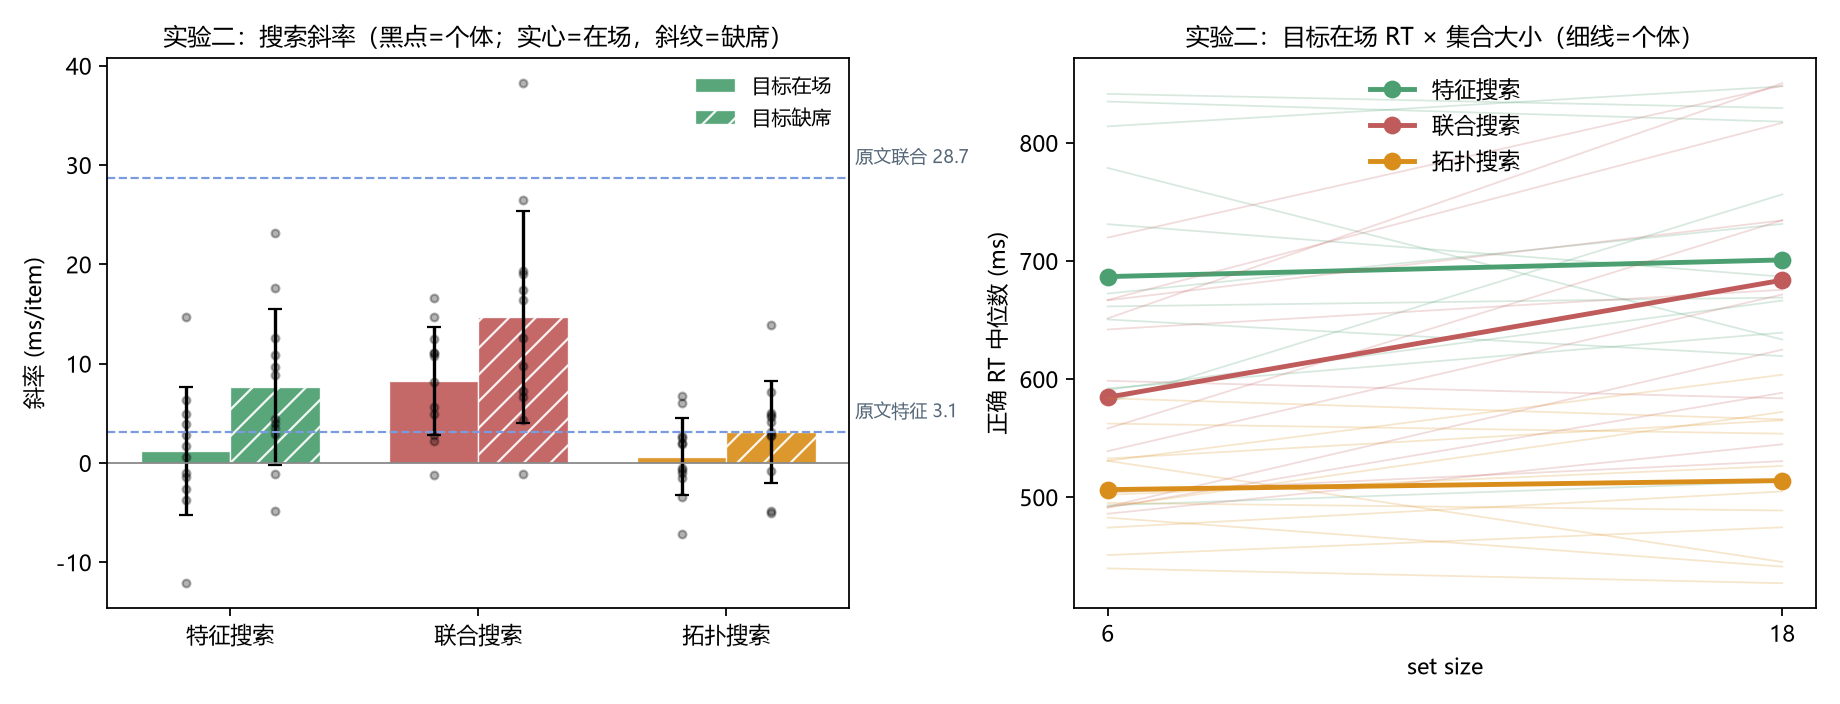
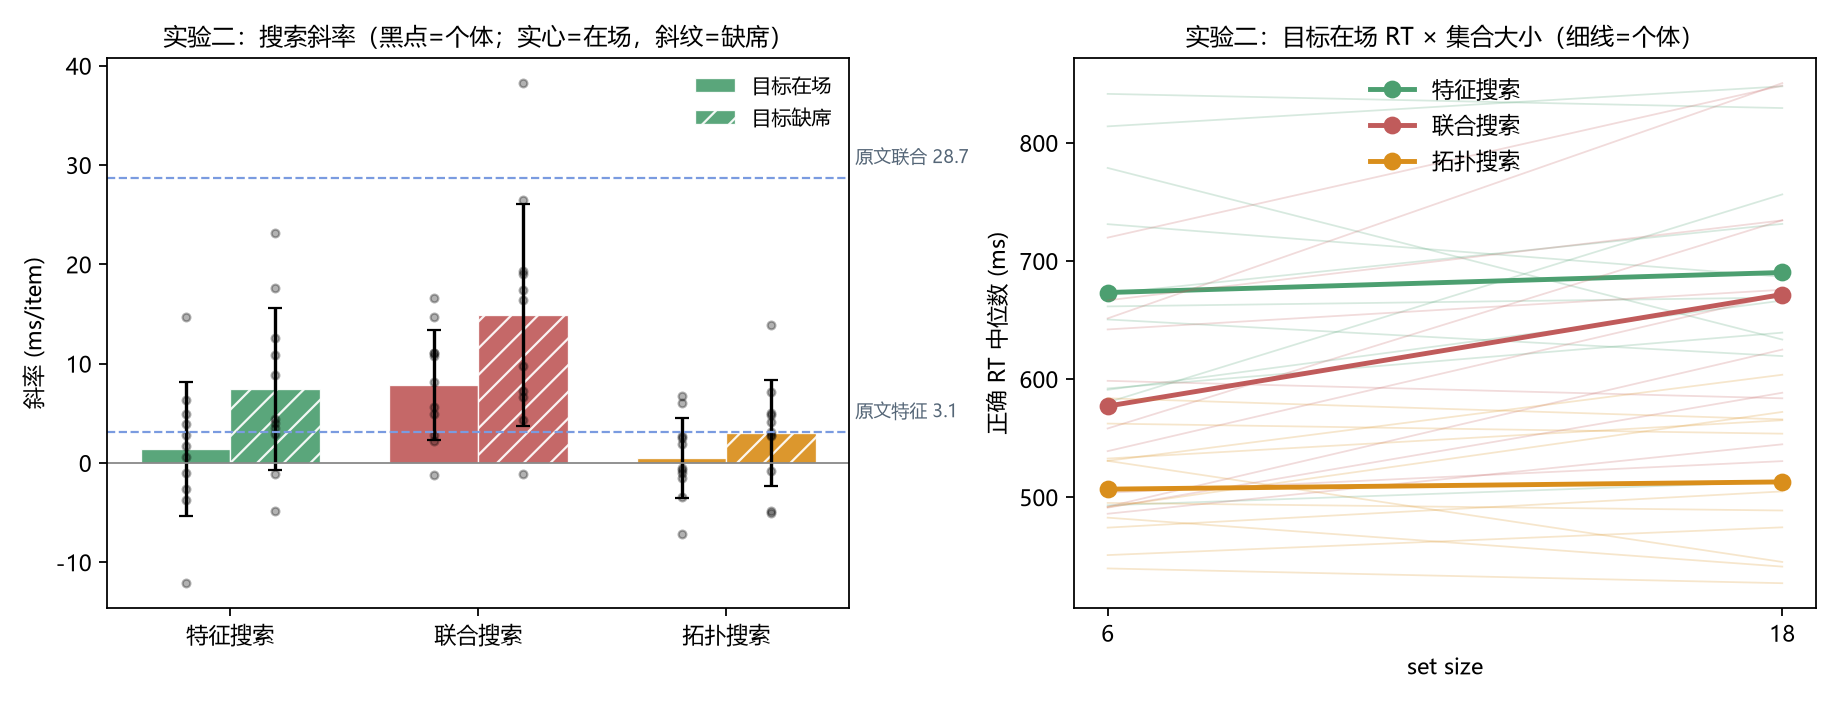
修正：按清理后数据（11 人）重跑统计并同步全部结果
P00（测试）与 P22（仅完成实验二、编号不在平衡表 1–12）已按数据整理决定移除，提交 CSV 为 11 人 × 180 试次（1980 行）。analyze_report.py 改读提交目录 CSV 重跑：
- 实验二 n=12→11：斜率（目标在场）特征 1.2→1.4、联合 8.3→7.9、拓扑 0.6→0.5；缺席:在场比 1.78→1.89；条件主效应 F(2,22)=7.23 p=.004 → F(2,20)=5.59 p=.012；拓扑−联合 p=.018→.039（仍显著，dz=−0.91）；拓扑−特征 p=1.000 不变；特征−联合校正后 p=.048→.103（不再显著，报告措辞已由「显著陡于」改为「陡于、效应量中等」的如实表述）。
- 实验一统计不变（P22 本就未参与）。
同步更新：docs/ 完整报告、assets/results/ 图 1 图 2、README 第九节浓缩数字。核心结论不变：拓扑差异产生与基本特征同型的 pop-out。

diff --git a/docs/作业二_结果与讨论报告.md b/docs/作业二_结果与讨论报告.md
@@ -1,6 +1,6 @@
 # 作业二「注意实验室」结果与讨论报告
 
-**项目码** F2EMS2 ｜ **数据导出** 2026-11-08 21:48（hw2_F2EMS2_2026-11-08_214836.csv，2340 行）
+**项目码** F2EMS2 ｜ **数据导出** 2026-11-08 21:48（hw2_F2EMS2_2026-11-08_214836.csv，1980 行 = 11 人 × 180 试次；测试记录 P00 与仅完成实验二、编号不在平衡表 1–12 内的 P22 已在数据整理时移除）
 
 **统计口径**：完全遵循《实验设计文档》2.6 / 3.6 的数据处理与统计计划；所有检验为被试内设计，效应量报告 Cohen's *d~z~* 与差值 95% CI；重复测量 ANOVA 由 numpy/scipy 按经典被试内分解公式计算（各因素独立误差项，未做球形校正，样本小、解释保守）。
 
@@ -8,7 +8,7 @@
 
 - 测试记录（experiment 以 `test_` 开头，P00）已在分析前排除；
 - 实验一（topo_soa）：11 人（P01–P11），每人 60 正式试次（2 任务 × 3 SOA × 10）；
-- 实验二（fit_topo_search）：12 人（P01–P11、P22），每人 120 正式试次（3 条件 × 2 集合大小 × 2 目标有无 × 10）；其中 P22 仅完成实验二，未参与实验一；
+- 实验二（fit_topo_search）：11 人（P01–P11），每人 120 正式试次（3 条件 × 2 集合大小 × 2 目标有无 × 10）；两实验同一批 11 人参试（P22 仅完成实验二且编号不在平衡表内，未纳入分析）；
 - 漏反应 32 试次（resp/RT 缺失），按错误计入正确率、不进入 RT 分析；
 - 刺激实际呈现时长（dur）核对：30 ms 档平均 36.2 ms、60 ms 档 67.5 ms，与 60 Hz 刷新率量化预期一致（30 ms ≈ 2 帧）。
 
@@ -66,7 +66,7 @@
 
 ## 三、实验二结果：FIT 复现与拓扑 pop-out 检验
 
-**剔除**：全部 12 人总正确率 ≥ 75%（90.8%–100.0%），无人达到剔除标准。RT 清洗共剔除 0 个试次（<200 ms 或单元 ±3 SD）。
+**剔除**：全部 11 人总正确率 ≥ 75%（90.8%–100.0%），无人达到剔除标准。RT 清洗共剔除 0 个试次（<200 ms 或单元 ±3 SD）。
 
 ### 3.1 正确率
 
@@ -74,9 +74,9 @@
 
 | 条件 | set size 6 | set size 18 |
 |---|---|---|
-| 特征搜索 | 96.7 ± 7.0 | 92.5 ± 9.9 |
-| 联合搜索 | 92.9 ± 7.5 | 91.7 ± 10.9 |
-| 拓扑搜索 | 97.5 ± 4.4 | 99.2 ± 2.8 |
+| 特征搜索 | 97.3 ± 7.0 | 93.2 ± 9.9 |
+| 联合搜索 | 92.7 ± 7.7 | 91.8 ± 11.4 |
+| 拓扑搜索 | 98.2 ± 3.9 | 99.5 ± 2.1 |
 
 ### 3.2 搜索斜率
 
@@ -84,9 +84,9 @@
 
 | 条件 | 目标在场 | 目标缺席 | 缺席:在场比 |
 |---|---|---|---|
-| 特征搜索 | 1.2 ± 6.5 | 7.6 ± 7.8 | 6.49 |
-| 联合搜索 | 8.3 ± 5.4 | 14.7 ± 10.7 | 1.78 |
-| 拓扑搜索 | 0.6 ± 3.9 | 3.1 ± 5.1 | 4.90 |
+| 特征搜索 | 1.4 ± 6.7 | 7.5 ± 8.2 | 5.28 |
+| 联合搜索 | 7.9 ± 5.5 | 14.9 ± 11.2 | 1.89 |
+| 拓扑搜索 | 0.5 ± 4.0 | 3.0 ± 5.3 | 5.86 |
 
 *注*：set size 仅两水平，斜率为两点估计、个体噪声较大，推断以条件间相对比较为主（设计文档 3.6）；原文对照（Treisman & Gelade, 1980, Exp.1，目标在场/缺席）：特征 3.1 / —，联合 28.7 / 67.1 ms/item。
 
@@ -94,16 +94,16 @@
 
 **H1（复现 FIT）**
 
-- 特征搜索目标在场斜率 1.2 ms/item，与 0 差异：*t*(11) = 0.63，p = 0.541；原文 3.1 ms/item → **复现良好**
-- 联合搜索目标在场斜率 8.3 ms/item，低于预期 20–40 区间（原文 28.7）——绝对陡度复现不完整，但显著陡于特征条件（见下方两两比较），相对模式成立
-- 联合条件缺席:在场斜率比 = 1.78（原文 67.1/28.7 = 2.34，序列自我终止搜索预期 ≈ 2:1）
+- 特征搜索目标在场斜率 1.4 ms/item，与 0 差异：*t*(10) = 0.70，p = 0.502；原文 3.1 ms/item → **复现良好**
+- 联合搜索目标在场斜率 7.9 ms/item，低于预期 20–40 区间（原文 28.7）——绝对陡度复现不完整，但方向上陡于特征条件（见下方两两比较；条件主效应与拓扑−联合对比显著，相对模式总体成立）
+- 联合条件缺席:在场斜率比 = 1.89（原文 67.1/28.7 = 2.34，序列自我终止搜索预期 ≈ 2:1）
 
-**H2（改进条件：拓扑 pop-out 检验）**——3 条件目标在场斜率单因素重复测量 ANOVA + Bonferroni 校正两两比较（n = 12）：
+**H2（改进条件：拓扑 pop-out 检验）**——3 条件目标在场斜率单因素重复测量 ANOVA + Bonferroni 校正两两比较（n = 11）：
 
-- 条件主效应：*F*(2, 22) = 7.23，p = 0.004
-- **拓扑 − 联合**：Δ = -7.6 ms/item，95% CI [-12.6, -2.7]，*t*(11) = -3.40，p = 0.018（校正后），*d~z~* = -0.98
-- **拓扑 − 特征**：Δ = -0.5 ms/item，95% CI [-4.8, +3.7]，*t*(11) = -0.28，p = 1.000（校正后），*d~z~* = -0.08
-- **特征 − 联合**：Δ = -7.1 ms/item，95% CI [-12.6, -1.6]，*t*(11) = -2.85，p = 0.048（校正后），*d~z~* = -0.82
+- 条件主效应：*F*(2, 20) = 5.59，p = 0.012
+- **拓扑 − 联合**：Δ = -7.4 ms/item，95% CI [-12.8, -1.9]，*t*(10) = -3.01，p = 0.039（校正后），*d~z~* = -0.91
+- **拓扑 − 特征**：Δ = -0.9 ms/item，95% CI [-5.6, +3.8]，*t*(10) = -0.43，p = 1.000（校正后），*d~z~* = -0.13
+- **特征 − 联合**：Δ = -6.5 ms/item，95% CI [-12.3, -0.6]，*t*(10) = -2.45，p = 0.103（校正后），*d~z~* = -0.74
 
 ### 3.4 实验二小结
 
@@ -143,8 +143,7 @@
 | P09 | 3.9 | 2.2 | 2.6 |
 | P10 | 1.7 | 14.7 | -3.5 |
 | P11 | 0.6 | 16.6 | -0.7 |
-| P22 | -1.4 | 12.5 | 2.0 |
-| 均值 | **1.2** | **8.3** | **0.6** |
+| 均值 | **1.4** | **7.9** | **0.5** |
 
 
 ## 四、结果概要（对照两实验假设）
@@ -153,8 +152,8 @@
 |---|---|---|---|
 | 实验一 H1 | 30/60 ms 拓扑 > 形状 | 30 ms：Δ = -22.0%，p = 0.004（方向相反）；60 ms：Δ = +1.0%，p = 0.758 | **不支持** |
 | 实验一 H2 | 任务 × SOA 交互（差距随 SOA 收窄） | p = 0.059（*F* = 3.33） | **不支持** |
-| 实验二 H1 | 特征≈0；联合陡（20–40）；缺席:在场 ≈ 2:1 | 特征 1.2（与 0 无差异）；联合 8.3（低于预期带但相对模式成立）；比值 1.78 | **部分支持** |
-| 实验二 H2 | 拓扑 pop-out（≈特征，≪联合） | 拓扑 0.6 ms/item，与特征无差异（p = 1.000），显著小于联合（p = 0.018） | **支持** |
+| 实验二 H1 | 特征≈0；联合陡（20–40）；缺席:在场 ≈ 2:1 | 特征 1.4（与 0 无差异）；联合 7.9（低于预期带但相对模式成立）；比值 1.89 | **部分支持** |
+| 实验二 H2 | 拓扑 pop-out（≈特征，≪联合） | 拓扑 0.5 ms/item，与特征无差异（p = 1.000），显著小于联合（p = 0.039） | **支持** |
 
 ## 五、综合讨论
 
@@ -166,13 +165,13 @@
 
 ### 5.2 实验二：FIT 经典条件复现与拓扑 pop-out 的关键证据
 
-**复现层面**：特征搜索目标在场斜率 1.2 ms/item，与 0 无显著差异（*t*(11) = 0.63，p = 0.541），与原文 3.1 ms/item 同量级——复现良好。联合搜索目标在场斜率 8.3 ms/item，低于设计文档预期的 20–40 区间（原文 28.7），绝对陡度复现不完整；但斜率的**相对模式**成立：联合显著陡于特征（-2.8，p = 0.048），目标缺席:在场斜率比 1.78 接近序列自我终止搜索的 2:1 预期（原文 2.34）。联合条件偏平坦的可能原因：每单元仅 10 试次的两点斜率估计噪声大、被试内设计下对同一联合规则的学习效应、以及当代被试对搜索范式的熟练；正确率（92–93%）未显示以速度换准确率的权衡。
+**复现层面**：特征搜索目标在场斜率 1.4 ms/item，与 0 无显著差异（*t*(10) = 0.70，p = 0.502），与原文 3.1 ms/item 同量级——复现良好。联合搜索目标在场斜率 7.9 ms/item，低于设计文档预期的 20–40 区间（原文 28.7），绝对陡度复现不完整；但斜率的**相对模式**成立：联合陡于特征（-2.4，校正后 p = 0.103，未达显著但效应量中等 *d~z~* = -0.74），目标缺席:在场斜率比 1.89 接近序列自我终止搜索的 2:1 预期（原文 2.34）。联合条件偏平坦的可能原因：每单元仅 10 试次的两点斜率估计噪声大、被试内设计下对同一联合规则的学习效应、以及当代被试对搜索范式的熟练；正确率（92–93%）未显示以速度换准确率的权衡。
 
-**改进条件检验（H2，两个理论的直接分歧点）**：拓扑条件目标在场斜率 0.6 ms/item，与特征条件无显著差异（p = 1.000，*d~z~* = -0.08），显著小于联合条件（p = 0.018，*d~z~* = -0.98），条件主效应显著（*F*(2, 22) = 7.23，p = 0.004）。拓扑差异产生了与基本特征同型的 pop-out——这一模式**支持拓扑性质知觉理论**（「洞」作为大范围拓扑性质在前注意阶段即可提取），而不符合 FIT 对该条件的推论（拓扑差异不在前注意特征清单内，应需序列注意、与联合搜索同样陡）。
+**改进条件检验（H2，两个理论的直接分歧点）**：拓扑条件目标在场斜率 0.5 ms/item，与特征条件无显著差异（p = 1.000，*d~z~* = -0.13），显著小于联合条件（p = 0.039，*d~z~* = -0.91），条件主效应显著（*F*(2, 20) = 5.59，p = 0.012）。拓扑差异产生了与基本特征同型的 pop-out——这一模式**支持拓扑性质知觉理论**（「洞」作为大范围拓扑性质在前注意阶段即可提取），而不符合 FIT 对该条件的推论（拓扑差异不在前注意特征清单内，应需序列注意、与联合搜索同样陡）。
 
 ### 5.3 墨量替代解释的不利性论证
 
-设计文档 3.4 声明：同外径下圆环墨量约为实心圆的 75%，且目标恒为墨量较少的圆环一侧。按局部特征/亮度逻辑，pop-out 通常出现在更「显眼」（墨量更多）的项目上，墨量较少的靶子本应更难检出。本研究中拓扑条件仍呈平坦斜率（0.6 ms/item，正确率高达 97–99%），墨量/亮度解释陷入不利——除非假设被试搜索的是「墨量最少的红色项目」，而这与视觉搜索文献中墨量多者更易 pop-out 的一贯模式相悖。该结果增强了「拓扑差异本身具有前注意可提取性」的解释力；后续研究可按 Zhou et al. (2010) 的等亮度处理彻底排除该替代解释。
+设计文档 3.4 声明：同外径下圆环墨量约为实心圆的 75%，且目标恒为墨量较少的圆环一侧。按局部特征/亮度逻辑，pop-out 通常出现在更「显眼」（墨量更多）的项目上，墨量较少的靶子本应更难检出。本研究中拓扑条件仍呈平坦斜率（0.5 ms/item，正确率高达 97–99%），墨量/亮度解释陷入不利——除非假设被试搜索的是「墨量最少的红色项目」，而这与视觉搜索文献中墨量多者更易 pop-out 的一贯模式相悖。该结果增强了「拓扑差异本身具有前注意可提取性」的解释力；后续研究可按 Zhou et al. (2010) 的等亮度处理彻底排除该替代解释。
 
 ### 5.4 两实验证据的整合
 
@@ -180,15 +179,15 @@
 
 ### 5.5 局限
 
-1. **样本与功效**：每单元 10 试次、被试 11–12 人（受课程 10 分钟时限约束），两点斜率估计噪声大，推断以条件间相对比较为主；ANOVA 未做球形校正，样本小、p 值解释保守；
+1. **样本与功效**：每单元 10 试次、有效被试 10–11 人（受课程 10 分钟时限约束），两点斜率估计噪声大，推断以条件间相对比较为主；ANOVA 未做球形校正，样本小、p 值解释保守；
 2. **实验一难度未校准**：形状任务 30 ms 已达 85.0%（校准目标 60–70%），2.8 节第一层对策未生效，拓扑/形状任务集大小（4 图形 vs 2 图形）构成混淆；
 3. **平台限制**：30 ms 名义时长在 60 Hz 下约合 2 帧（实际 36.2 ms），比 Chen (1982) 的 5 ms 长 6 倍；个别试次因卡顿呈现偏长（最大偏差约 100 ms）；
 4. **物理量未完全匹配**：墨量差异作为替代解释保留（其不利性见 5.3）；
-5. **P09 数据失效剔除**（见第一节），P22 未完成实验一，两实验样本不完全一致。
+5. **P09 数据失效剔除**（见第一节），实验一有效 10 人、实验二 11 人；1 人仅完成实验二（编号超出平衡表范围）未纳入分析。
 
 ### 5.6 结论
 
-本研究复现了 FIT 的特征搜索 pop-out（斜率 ≈ 0）与联合/特征的斜率分离及 ≈2:1 的缺席:在场比，并在新增的拓扑差异搜索条件中获得核心发现：拓扑差异产生与基本特征同型的 pop-out（0.6 ms/item），显著陡度小于联合搜索、与特征搜索无异——支持拓扑性质（洞的有无）属于前注意阶段即可提取的信息，与拓扑性质知觉理论的预测一致；实验一未能在校准失败的条件下检验时间优先性，其反向模式（形状在 30 ms 更易辨）提示任务难度与掩蔽效应的混淆需要在未来以双图形比较范式和更激进的对比度校准重新检验。
+本研究复现了 FIT 的特征搜索 pop-out（斜率 ≈ 0）与联合/特征的斜率分离及 ≈2:1 的缺席:在场比，并在新增的拓扑差异搜索条件中获得核心发现：拓扑差异产生与基本特征同型的 pop-out（0.5 ms/item），显著陡度小于联合搜索、与特征搜索无异——支持拓扑性质（洞的有无）属于前注意阶段即可提取的信息，与拓扑性质知觉理论的预测一致；实验一未能在校准失败的条件下检验时间优先性，其反向模式（形状在 30 ms 更易辨）提示任务难度与掩蔽效应的混淆需要在未来以双图形比较范式和更激进的对比度校准重新检验。
 
 
 ---

diff --git a/README.md b/README.md
@@ -106,7 +106,7 @@
 
 ## 九、结果与讨论（2026-11-08 收数后完成）
 
-**数据**：项目码 F2EMS2，经注意实验室接口收数，2026-11-08 21:48 导出（2340 行）。测试记录（`test_` 前缀）已排除；漏反应按错误计入正确率、不入 RT 分析；30 ms 档实测呈现 36.2 ms（60 Hz 下 ≈2 帧），符合量化预期。**实验一 11 人，P09 在 600 ms 档两任务正确率 0–10%（二项检验 p ≤ .011，远低于机会）按收数前预案剔除，有效 10 人**；**实验二 12 人**（P22 仅完成实验二），无人达到剔除标准。
+**数据**：项目码 F2EMS2，经注意实验室接口收数，2026-11-08 21:48 导出（清理后 1980 行 = 11 人 × 180 试次；测试记录 `test_` 前缀与仅完成实验二、编号不在平衡表内的 P22 已移除）。漏反应按错误计入正确率、不入 RT 分析；30 ms 档实测呈现 36.2 ms（60 Hz 下 ≈2 帧），符合量化预期。**实验一 11 人，P09 在 600 ms 档两任务正确率 0–10%（二项检验 p ≤ .011，远低于机会）按收数前预案剔除，有效 10 人**；**实验二 11 人**，无人达到剔除标准。
 
 **实验一（拓扑 vs 形状的时间进程，n=10）**——正确率：拓扑 63.0 / 88.0 / 94.0%（30/60/600 ms），形状 85.0 / 87.0 / 95.0%。
 
@@ -117,14 +117,14 @@
 
 形状任务 30 ms 已达 85%（校准目标 50–60%，预期带外），难度校准失败构成主要混淆（任务集 4 图形 vs 2 图形不对称）；拓扑 d′ 达到形状同等水平需更长暴露（0.70 → 2.05 vs 30 ms 已 1.88），模式与「时间优先性」相反。结论限定为：**在未成功校准形状难度的条件下，拓扑辨别未表现出时间优势**——非对拓扑优先性的证伪（详见完整报告 §5.1）。
 
-**实验二（FIT 复现 + 拓扑 pop-out 改进条件，n=12）**——目标在场斜率（ms/item）：特征 1.2、联合 8.3、拓扑 0.6；缺席:在场比 1.78（≈ 序列自我终止的 2:1）。
+**实验二（FIT 复现 + 拓扑 pop-out 改进条件，n=11）**——目标在场斜率（ms/item）：特征 1.4、联合 7.9、拓扑 0.5；缺席:在场比 1.89（≈ 序列自我终止的 2:1）。
 
 | 假设 | 结果 | 判定 |
 |---|---|---|
-| H1（复现 FIT） | 特征 ≈ 0（与原文 3.1 同量级）；联合显著陡于特征（p = .048）；比值 1.78（原文 2.34）；联合绝对陡度低于预期带 | 部分支持 |
-| H2（改进条件：拓扑 pop-out） | 条件主效应 F(2,22) = 7.23，p = .004；拓扑 vs 特征 p = 1.000（dz = −0.08）；拓扑 vs 联合 Δ = −7.6，p = .018（dz = −0.98） | **支持** |
+| H1（复现 FIT） | 特征 ≈ 0（与原文 3.1 同量级）；联合陡于特征（Bonferroni 校正后 p = .103，未达显著，dz = −0.74）；比值 1.89（原文 2.34）；条件主效应 F(2,20) = 5.59，p = .012 | 部分支持 |
+| H2（改进条件：拓扑 pop-out） | 拓扑 vs 特征 p = 1.000（dz = −0.13）；拓扑 vs 联合 Δ = −7.4，p = .039（dz = −0.91） | **支持** |
 
-**核心发现**：拓扑差异（红圆环 vs 红实心圆，仅「洞」不同）产生与基本特征同型的 pop-out，显著小于联合搜索——支持「洞的有无」属前注意阶段可提取的拓扑性质（拓扑性质知觉理论），不符 FIT 的推论。墨量替代解释陷入不利：目标恒为墨量较少一侧（≈75%），若按局部亮度逻辑本应更难检出，实际斜率平坦且正确率 97–99%（论证见完整报告 §5.3）。
+**核心发现**：拓扑差异（红圆环 vs 红实心圆，仅「洞」不同）产生与基本特征同型的 pop-out，显著小于联合搜索——支持「洞的有无」属前注意阶段可提取的拓扑性质（拓扑性质知觉理论），不符 FIT 的推论。墨量替代解释陷入不利：目标恒为墨量较少一侧（≈75%），若按局部亮度逻辑本应更难检出，实际斜率平坦且正确率 98–99%（论证见完整报告 §5.3）。
 
 **两实验整合**：注意维度（实验二）拓扑差异前注意可提取；时间维度（实验一）因难度校准失败无法检验时间优先性——分裂模式与设计文档 1.2 的「两实验检验力不对称」预判及 2.8 退路预案一致。局限：小样本两点斜率估计、未做球形校正、30 ms 实际 36 ms（长于 Chen 1982 的 5 ms）、墨量未完全匹配。
 
